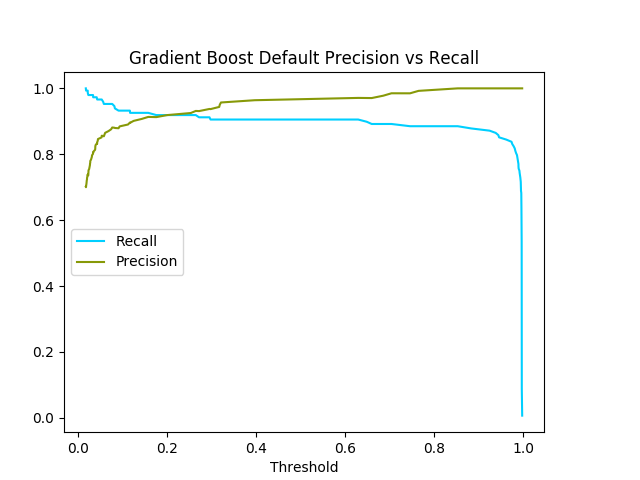
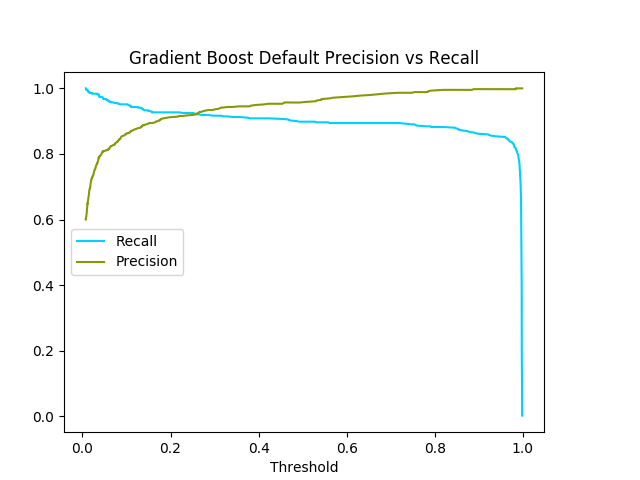
using cross-validation now

diff --git a/svm.py b/svm.py
@@ -1,6 +1,7 @@
 import matplotlib.pyplot as plt
+import numpy as np
 from extractor import Extractor
-from sklearn.model_selection import train_test_split
+from sklearn.model_selection import StratifiedKFold
 from sklearn.metrics import average_precision_score
 from sklearn.metrics import precision_recall_curve
 from sklearn import svm
@@ -10,22 +11,34 @@ basedata = Extractor.loaddata('data-1-0.5')
 # Split the data into test/train
 X = basedata[:, :-1]
 y = basedata[:, -1]
-# 70% vs 30% train-test split. Stratify ensures equal distribution of +ve and -ve samples
-X_train, X_test, y_train, y_test = train_test_split(X, y, test_size=0.3, stratify=y)
 
-# Classification
-clf = svm.SVC(probability=True)
-clf.fit(X_train, y_train)
-test_score = clf.score(X_test, y_test)
-y_score = clf.predict_proba(X_test)[:,1]
+# Use cross-validation
+y_tests = np.array([0.0])
+y_scores = np.array([0.0])
 
+skf = StratifiedKFold(n_splits=4, shuffle=True)
+for train_index, test_index in skf.split(X, y):
+	X_train, X_test = np.array(X[train_index]), np.array(X[test_index])
+	y_train, y_test = np.array(y[train_index]), np.array(y[test_index])
+
+	clf = svm.SVC(probability=True)
+	clf.fit(X_train, y_train)
+	y_score = clf.predict_proba(X_test)[:,1]
+
+	y_scores = np.hstack((y_scores, y_score))
+	y_tests = np.hstack((y_tests, y_test))
+
+y_tests = y_tests[1:]
+y_scores = y_scores[1:]
 
 # Get the P-R curve - http://scikit-learn.org/stable/auto_examples/model_selection/plot_precision_recall.html
 # https://github.com/adamwight/thresholds_diagrams/blob/master/Thresholds%20diagrams.ipynb
-average_precision = average_precision_score(y_test, y_score)
+average_precision = average_precision_score(y_tests, y_scores)
 print('Average precision score: {0:0.2f}'.format(average_precision))
 
-precision, recall, thresholds = precision_recall_curve(y_test, y_score)
+precision, recall, thresholds = precision_recall_curve(y_tests, y_scores)
+
+print y_tests.shape
 
 graph = plt.figure()
 axes = graph.add_axes([0.1,0.1,0.75,0.75])
@@ -34,8 +47,7 @@ axes.set_xlabel("Threshold")
 
 axes.plot(thresholds, recall[:-1], "#00CFFF", label="Recall")
 axes.plot(thresholds, precision[:-1], "#879908", label="Precision")
-# axes.plot(recall, precision, "#00CFFF", label="Prec vs Recall")
 
 axes.legend(loc="center left")
-graph.savefig("plots/svm-default.png")
+# graph.savefig("plots/svm-default.png")
 

diff --git a/grad-boost.py b/grad-boost.py
@@ -1,6 +1,7 @@
 import matplotlib.pyplot as plt
+import numpy as np
 from extractor import Extractor
-from sklearn.model_selection import train_test_split
+from sklearn.model_selection import StratifiedKFold
 from sklearn.metrics import average_precision_score
 from sklearn.metrics import precision_recall_curve
 from sklearn.ensemble import GradientBoostingClassifier
@@ -11,18 +12,31 @@ basedata = Extractor.loaddata('data-1-0.5')
 # Split the data into test/train
 X = basedata[:, :-1]
 y = basedata[:, -1]
-X_train, X_test, y_train, y_test = train_test_split(X, y, test_size=0.3, stratify=y)
 
-# Classification
-clf = GradientBoostingClassifier()
-clf.fit(X_train, y_train)
-test_score = clf.score(X_test, y_test)
-y_score = clf.predict_proba(X_test)[:,1]
+# Use cross-validation
+y_tests = np.array([0.0])
+y_scores = np.array([0.0])
 
-average_precision = average_precision_score(y_test, y_score)
+skf = StratifiedKFold(n_splits=4, shuffle=True)
+for train_index, test_index in skf.split(X, y):
+	X_train, X_test = np.array(X[train_index]), np.array(X[test_index])
+	y_train, y_test = np.array(y[train_index]), np.array(y[test_index])
+
+	# Classification
+	clf = GradientBoostingClassifier()
+	clf.fit(X_train, y_train)
+	y_score = clf.predict_proba(X_test)[:,1]
+
+	y_scores = np.hstack((y_scores, y_score))
+	y_tests = np.hstack((y_tests, y_test))
+
+y_tests = y_tests[1:]
+y_scores = y_scores[1:]
+
+average_precision = average_precision_score(y_tests, y_scores)
 print('Average precision score: {0:0.2f}'.format(average_precision))
 
-precision, recall, thresholds = precision_recall_curve(y_test, y_score)
+precision, recall, thresholds = precision_recall_curve(y_tests, y_scores)
 
 graph = plt.figure()
 axes = graph.add_axes([0.1,0.1,0.75,0.75])
@@ -31,8 +45,7 @@ axes.set_xlabel("Threshold")
 
 axes.plot(thresholds, recall[:-1], "#00CFFF", label="Recall")
 axes.plot(thresholds, precision[:-1], "#879908", label="Precision")
-# axes.plot(recall, precision, "#00CFFF", label="Prec vs Recall")
 
 axes.legend(loc="center left")
-graph.savefig("plots/gb-default.png")
+# graph.savefig("plots/gb-default.png")
 

diff --git a/random-forest.py b/random-forest.py
@@ -1,6 +1,7 @@
 import matplotlib.pyplot as plt
+import numpy as np
 from extractor import Extractor
-from sklearn.model_selection import train_test_split
+from sklearn.model_selection import StratifiedKFold
 from sklearn.metrics import average_precision_score
 from sklearn.metrics import precision_recall_curve
 from sklearn.ensemble import RandomForestClassifier
@@ -11,18 +12,31 @@ basedata = Extractor.loaddata('data-2-0.5')
 # Split the data into test/train
 X = basedata[:, :-1]
 y = basedata[:, -1]
-X_train, X_test, y_train, y_test = train_test_split(X, y, test_size=0.3, stratify=y)
 
-# Classification
-clf = RandomForestClassifier()
-clf.fit(X_train, y_train)
-test_score = clf.score(X_test, y_test)
-y_score = clf.predict_proba(X_test)[:,1]
+# Use cross-validation
+y_tests = np.array([0.0])
+y_scores = np.array([0.0])
 
-average_precision = average_precision_score(y_test, y_score)
+skf = StratifiedKFold(n_splits=4, shuffle=True)
+for train_index, test_index in skf.split(X, y):
+	X_train, X_test = np.array(X[train_index]), np.array(X[test_index])
+	y_train, y_test = np.array(y[train_index]), np.array(y[test_index])
+
+	# Classification
+	clf = RandomForestClassifier()
+	clf.fit(X_train, y_train)
+	y_score = clf.predict_proba(X_test)[:,1]
+
+	y_scores = np.hstack((y_scores, y_score))
+	y_tests = np.hstack((y_tests, y_test))
+
+y_tests = y_tests[1:]
+y_scores = y_scores[1:]
+
+average_precision = average_precision_score(y_tests, y_scores)
 print('Average precision score: {0:0.2f}'.format(average_precision))
 
-precision, recall, thresholds = precision_recall_curve(y_test, y_score)
+precision, recall, thresholds = precision_recall_curve(y_tests, y_scores)
 
 graph = plt.figure()
 axes = graph.add_axes([0.1,0.1,0.75,0.75])
@@ -34,5 +48,5 @@ axes.plot(thresholds, precision[:-1], "#879908", label="Precision")
 # axes.plot(recall, precision, "#00CFFF", label="Prec vs Recall")
 
 axes.legend(loc="center left")
-graph.savefig("plots/rf-default.png")
+# graph.savefig("plots/rf-default.png")
 
